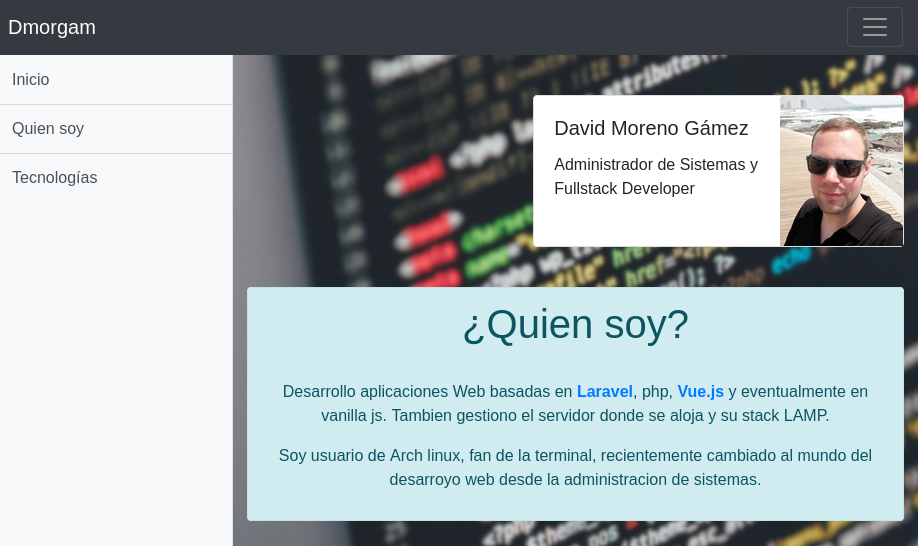
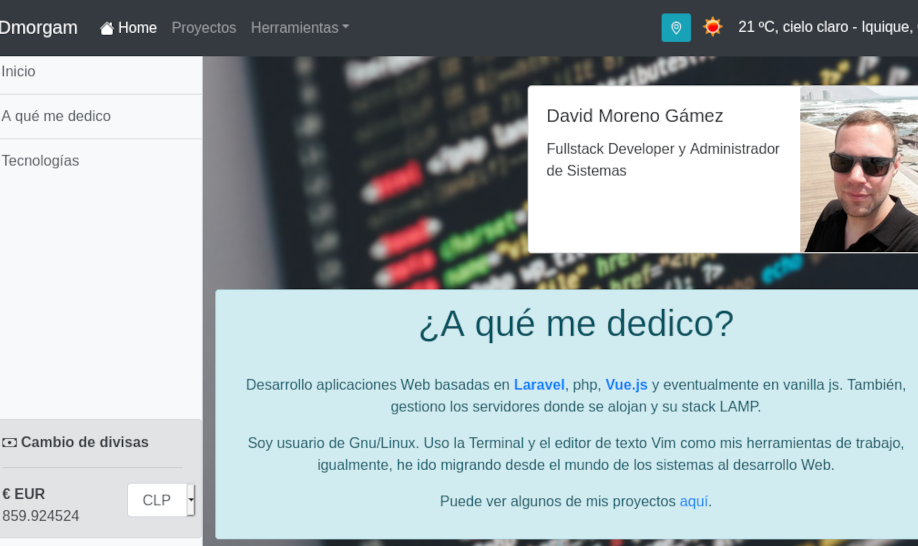
cambios en el texto

diff --git a/src/components/Home/Home.vue b/src/components/Home/Home.vue
@@ -13,9 +13,15 @@
                   <div class="row no-gutters">
                     <div class="col-md-8">
                       <div class="card-body">
-                        <h5 class="card-title">David Moreno Gámez</h5>
+                        <h5 class="card-title font-weight-bold">David Moreno Gámez</h5>
                         <p class="card-text">
-                           Fullstack Developer y Administrador de Sistemas
+                           Desarrollador Web y Administrador de Sistemas
+                        </p>
+                        <p>
+                          <small class="text-muted">
+                            Autodidacta, siempre con ganas de aprender nuevas tecnologías que
+                            aporten valor y avance tecnológico.
+                          </small>
                         </p>
                       </div>
                     </div>
@@ -34,14 +40,13 @@
               <h1>¿A qué me dedico?</h1>
               <br>
               <p>
-                Desarrollo aplicaciones Web basadas en <b><a href="https://laravel.com/">Laravel</a></b>, php,
-                <b><a href="https://vuejs.org/">Vue.js</a></b> y eventualmente en vanilla js.
-                También, gestiono los servidores donde se alojan y su stack LAMP.
+                Desarrollo aplicaciones Web <b><a href="https://laravel.com/">Laravel</a></b>, php,
+                <b><a href="https://vuejs.org/">Vue.js</a></b> y Javascript.
+                También, gestiono servidores LAMP con apache y Nginx.
               </p>
               <p>
-                Soy usuario de Gnu/Linux. Uso la Terminal y el editor de texto Vim como mis
-                herramientas de trabajo, igualmente, he ido migrando desde el mundo de los
-                sistemas al desarrollo Web.
+                Soy usuario habitual de Gnu/Linux. Usando la terminal, zsh, tmux y vim para
+                trabajar, he ido aprendiendo desde el mundo de los sistemas al desarrollo Web.
               </p>
               <p>Puede ver algunos de mis proyectos <router-link to="projects">aquí</router-link>.</p>
             </div>
@@ -55,7 +60,7 @@
               <br>
               <p><b>Lenguajes: </b> PHP, Javascript, Typescript (en desarrollo), Shell Scripting</p>
               <p><b>Frameworks: </b> Vue.js, Laravel, Bootstrap</p>
-              <p><b>Tecnologías: </b>Git, Docker, Kubernetes, Virtualización</p>
+              <p><b>Tecnologías: </b>Git, Docker, Kubernetes,Linux, Virtualización</p>
               <p><b>Herramientas: </b>Vim, npm, composer, zsh, Android Studio(básico)</p>
             </div>
          </div>
